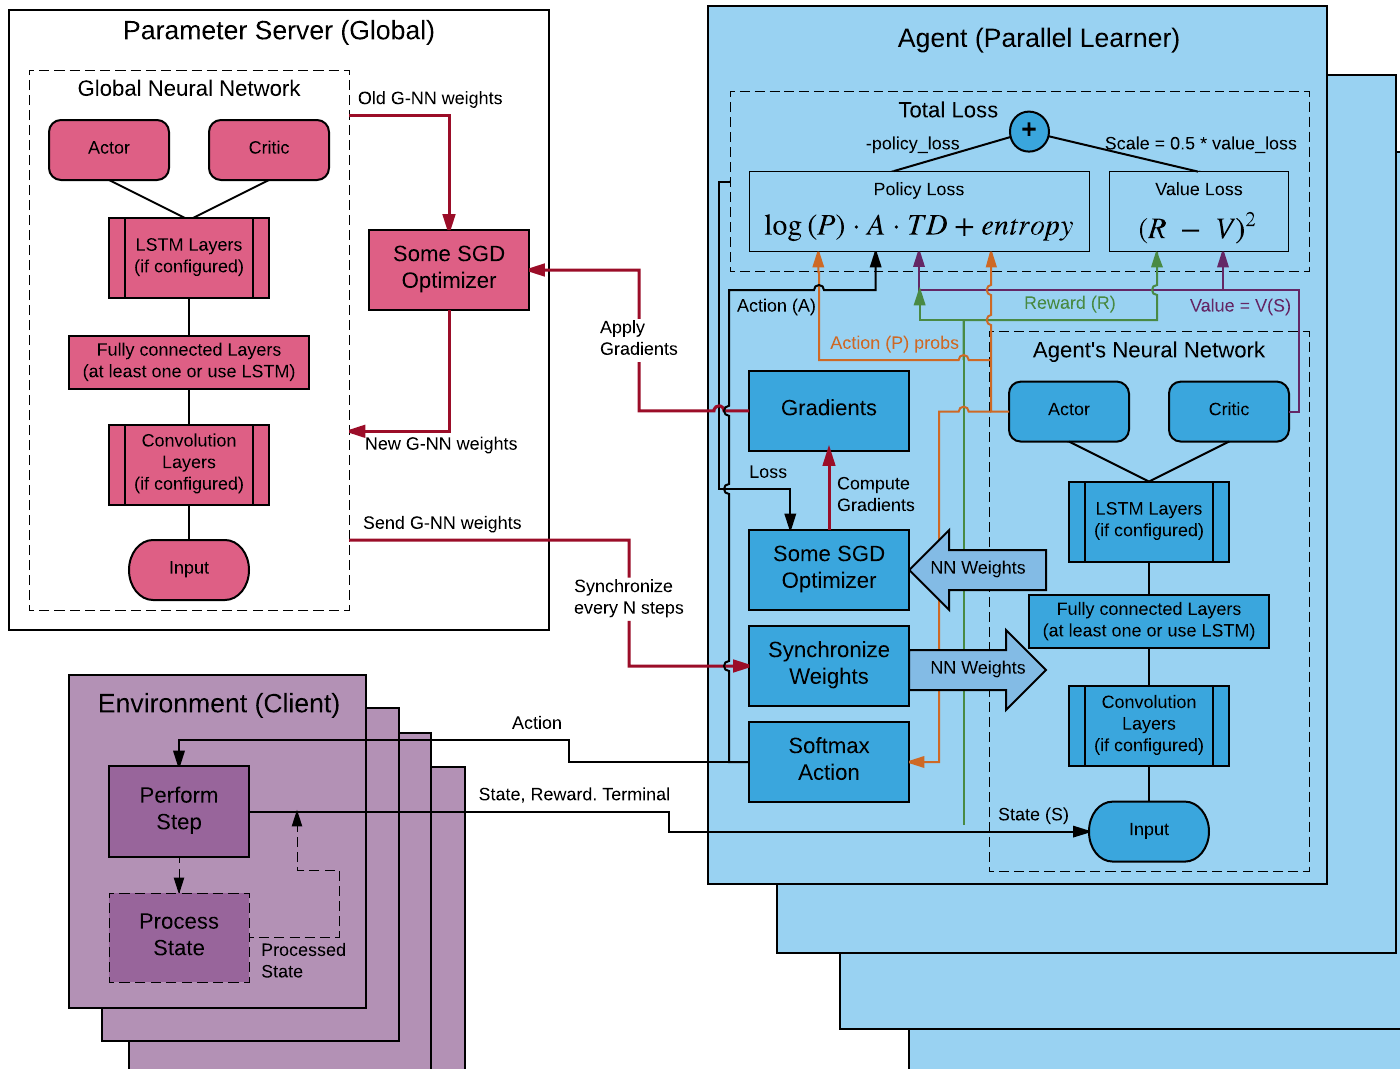
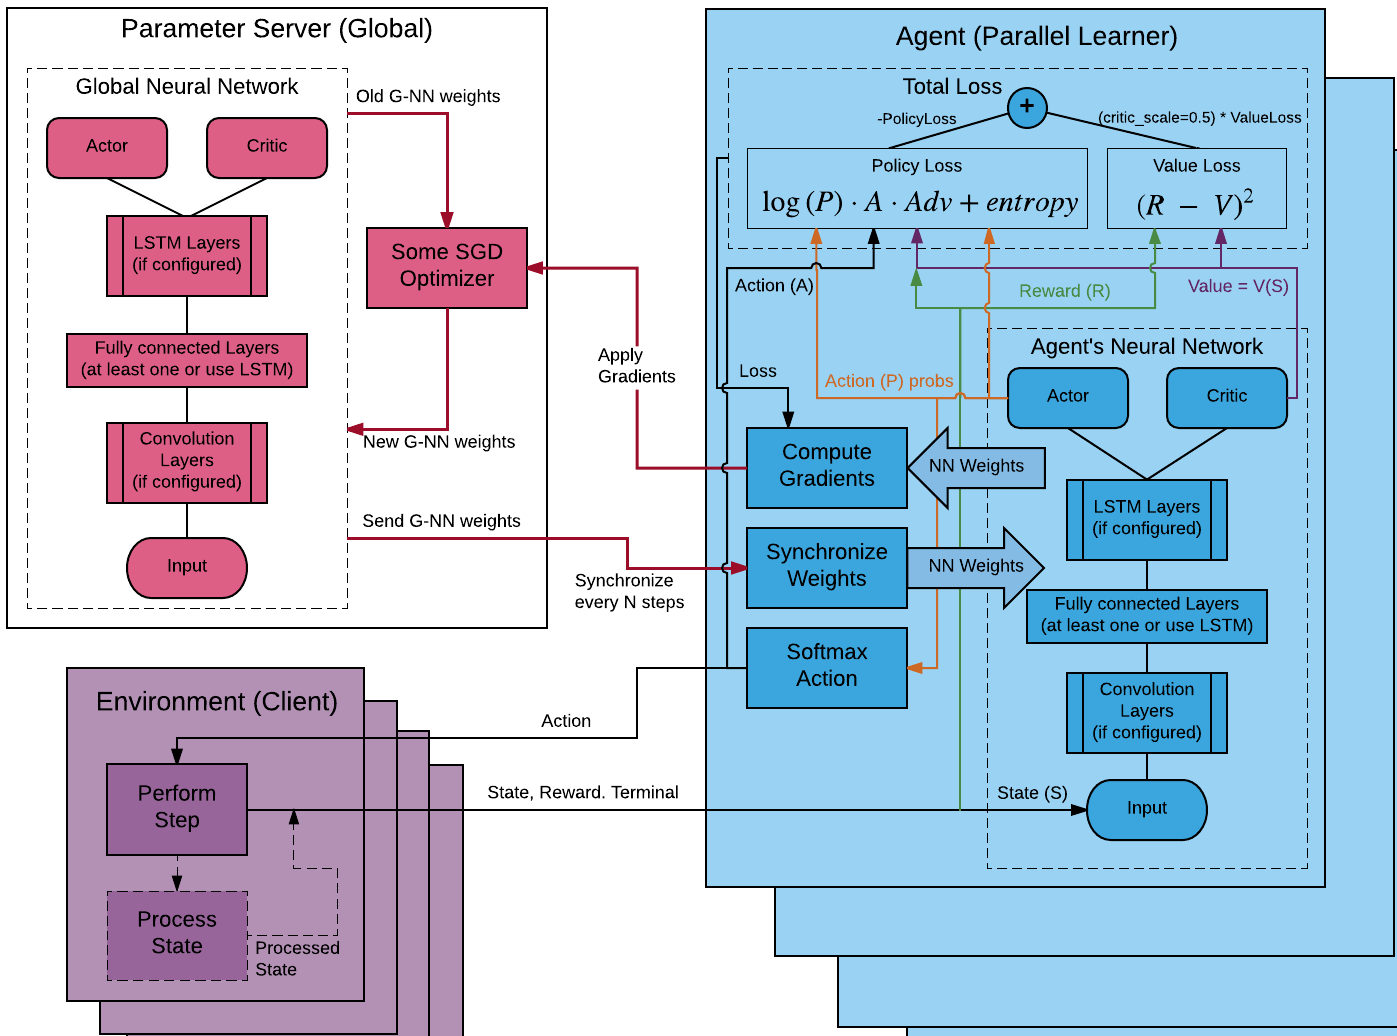
upd: freeze da3c docs

diff --git a/docs/Algorithms.md b/docs/Algorithms.md
@@ -43,8 +43,11 @@ The gradient update can be represented with _TD_-error multiplier as in original
 or with an estimate of the _advantage_ function:
 ![img](http://latex.codecogs.com/svg.latex?%5Cbigtriangledown_%7B%7B%5Ctheta%7D%27%7Dlog%5C%2C%5Cpi%5Cleft%28a_%7Bt%7D%5Cmid%5C%5Cs_%7Bt%7D%3B%5C%2C%7B%5Ctheta%7D%27%5Cright%29A%5Cleft%28s_%7Bt%7D%2Ca_%7Bt%7D%3B%5C%2C%5Ctheta%2C%5Ctheta_%7B%5Cupsilon%7D%5Cright%29),
 where
-![img](http://latex.codecogs.com/svg.latex?A%5Cleft%28s_%7Bt%7D%2Ca_%7Bt%7D%3B%5C%2C%5Ctheta%2C%5Ctheta_%7B%5Cupsilon%7D%5Cright%29%3D%5Csum_%7Bi%3D0%7D%5E%7Bk-1%7D%5Cgamma%5E%7Bi%7Dr_%7Bt%2Bi%7D%2B%5Cgamma%5E%7Bk%7DV%5Cleft%28s_%7Bt%7D%3B%5Ctheta_%7B%5Cupsilon%7D%5Cright%29)
+![img](http://latex.codecogs.com/svg.latex?A%5Cleft%28s_%7Bt%7D%2Ca_%7Bt%7D%3B%5C%2C%5Ctheta%2C%5Ctheta_%7B%5Cupsilon%7D%5Cright%29%3D%5Csum_%7Bi%3D0%7D%5E%7Bk-1%7D%5Cgamma%5E%7Bi%7Dr_%7Bt%2Bi%7D%2B%5Cgamma%5E%7Bk%7DV%5Cleft%28s_%7Bt%2Bk%7D%3B%5Ctheta_%7B%5Cupsilon%7D%5Cright%29-V%5Cleft%28s_%7Bt%7D%3B%5Ctheta_%7B%5Cupsilon%7D%5Cright%29)
 with _k_ upbounded by _t_<sub>_max_</sub>.
+To use the last one just set config parameter `use_gae` to `true`.
+The full set of possible config setups would be described later.
+Gradients are also applied with delay compensation on the server parameter for better convergence.  
 
 #### [Distributed A3C Architecture](#algorithms)
 ![img](resources/DA3C-Architecture.png)
@@ -54,45 +57,47 @@ with _k_ upbounded by _t_<sub>_max_</sub>.
 The main role of any client is feeding data to an Agent by transferring:
 state, reward and terminal signals (for episodic tasks if episode ends).
 Client updates these signals at each time step by receiving the action
-signal from an Agent and then sends updated values to it.
+signal from an Agent and then sends updated values back.
 
 - _Process State_: each state could be pass through some filtering
 procedure before transferring (if you defined). It could be some color,
 edge or blob transformations (for image input) or more complex
 pyramidal, Kalman's and spline filters.
 
-**Agent (Parallel Learner)** - one or more Agents can connect to a Global Learner.
+**Agent (Parallel Learner)** - each Agent connects to the Parameter Server.
 
-The main role of any agent is to perform main training loop.
-Agent synchronize their neural network weights with global network by
-copying the last one at the beginning of the loop. Agent performs
-N steps of Client's signals receiving and sending actions back.
+The main role of any agent is to perform a main training loop.
+Agent synchronize their neural network weights with the global network
+by copying the last one weights at the beginning of each training mini loop.
+Agent executes N steps of Client's signals receiving and sending actions back.
 These N steps is similar to batch collection. If batch is collected
-Agent computes the loss (wrt collected data) and pass it to Optimizer.
-RMSProp optimizer computes gradients, which sends to the Global Learner
-to update their neural network weights. Several Agents work in parallel
-and can update global network in concurrent way.
+Agent computes the loss (wrt collected data) and pass it to the Optimizer.
+It could be some SGD optimizer (ADAM or RMSProp) which computes gradients
+and sends it to the Parameter Server for update of its neural network weights.
+All Agents works absolutely independent in asynchronous way and can update or 
+receive the global network weights at any time.
 
-- _Agent's Neural Network_: we use the network architecture from this [Mnih's paper](https://arxiv.org/abs/1312.5602) (by default).
-    - _Input_: 3D input to pass through 2D convolutions (default: 84x84x4).
-    - _Convolution Layer #1_: 16 filters with 8x8 kernel and stride 4 in both directions, then ReLU applies (by default).
-    - _Convolution Layer #2_: 32 filters with 4x4 kernel and stride 2 in both directions, then ReLU applies (by default).
-    Sequence of two convolutions allows to define nonlinearity dependencies.
-    - _Fully connected Layer_: consists of 256 hidden units, then ReLU applies (by default).
-    - _Policy_: outputs number of units equals to action size, passed through softmax operator (by default).
-    It is Actor's output, which represents Q-values on unity distribution (equals to probability) of state-action value function - Q(s, a).
-    - _Value_: outputs one value without applying of additional operators (by default).
-    It is Critic's output, which represents value function output V(s) - how well this state (equals to expected return from this point).
+- _Agent's Neural Network_: we use the neural network architecture similar to [universe agent](https://github.com/openai/universe-starter-agent/blob/master/model.py) (by default).
+    - _Input_: `3D` input to pass through `2D` convolutions (default: `42x42x1`).
+    - _Convolution Layers : `4` layers with `32` filters each and `3x3` kernel, stride `2`, `ELU` activation (by default).
+    - _Fully connected Layers_: one layer with `256` hidden units and `ReLU` activation (by default).
+    - _LSTM Layers_: one layer with `256` cell size (by default it's replaced with fully connected layer).
+    - _Actor_: fully connected layer with number of units equals to `action_size` and `Softmax` activation (by default).  
+    It outputs an `1-D` array with probability distribution between possible actions.
+    - _Critic_: fully connected layer with `1` unit (by default).  
+    It outputs an `0-D` array representing the value of an state (expected return from this point).
 
-- _Total Loss_: it's scalar sum of value and policy loss.
+- _Total Loss_ _`= Policy_Loss + critic_scale * Value_Loss`_  
+    It uses `critic_scale` parameter to set a `critic learning rate` relative to `policy learning rate`  
+    It's set to `0.5` by default, i.e. the `critic learning rate` is `2` times smaller than `policy learning rate`
+    
     - _Value Loss_: sum (over all batch samples) of squared difference between
-    total discounted reward (R) and a value of the current sample state - V(s),
-    i.e. expected accumulated reward from this time step.
-    `R = ri + gamma * V(s from N+1_step)`, where
-     `ri` - immediate reward from this sample,
-     `gamma` - discount factor (constant for the model),
-     `V(s from N+1_step)` - value of the state next to the N-th state,
-      if next state is terminal then `V = 0`.
+    expected discounted reward `(R)` and a value of the current sample state - `V(s)`,
+    i.e. expected discounted return from this state.  
+    ![img](http://latex.codecogs.com/svg.latex?0.5%2A%5Csum_%7Bt%3D0%7D%5E%7Bt_%7Bmax%7D-1%7D%5Cleft%28R_%7Bt%7D-V%5Cleft%28s_%7Bt%7D%3B%5Ctheta_%7B%5Cupsilon%7D%5Cright%29%5Cright%29%5E%7B2%7D),
+    where ![img](http://latex.codecogs.com/svg.latex?R_%7Bt%7D%3D%5Csum_%7Bi%3D0%7D%5E%7Bk-1%7D%5Cgamma%5E%7Bi%7Dr_%7Bt%2Bi%7D%2B%5Cgamma%5E%7Bk%7DV%5Cleft%28s_%7Bt%7D%3B%5Ctheta_%7B%5Cupsilon%7D%5Cright%29)
+    with _k_ upbounded by _t_<sub>_max_</sub>.  
+    If _s<sub>t</sub>_ is terminal then _V(s<sub>t</sub>) = 0_.
 
     - _Policy Loss_: output of the policy (P) is an array of probability
      distribution over all possibly actions for the given sample state.
@@ -113,16 +118,7 @@ We will become more confident in some actions while training
 and the probability distribution is becoming more acute.
 It also helps to solve a problem of "path along the cliff" with high reward at the end.
 
-- _RMSProp Optimizer_: we use this type of optimizer wrt original paper.
-RMSProp is more customizable optimizer than Adam for instance and you
-can get better result if you fit it with appropriate parameters.
-We set `learning rate = 7e-4` for RMSProp and linear anneal this value through
-the training process wrt global training step. We also setup `decay = 0.99`
-and `epsilon = 0.01` for the optimizer. Agent's RMSProp just used to
-compute gradients wrt current Agent's neural network weights and given loss,
-while all moments and slots of optimizer are stored (and shared) at Global Learner.
-
-- _Gradients_: we clip computed gradients before transferring.
+- _Compute Gradients_: we clip computed gradients before transferring.
 
     `output_grads = computed_grads * 40.0 / l2norm(computed_grads)`
 
@@ -137,9 +133,16 @@ to synchronize. Global Learner can be sharded to speedup the training process.
 
 - _Global Neural Network_: network architecture is similar to Agent's one.
 
-- _RMSProp Optimizer_: has the same parameters as Agent's one,
-but used only to apply receiving gradients. This RMSProp
+- _RMSProp Optimizer_: Momentum Optimizers also
 stores moments and slots that are global for all Agents.
+we use this type of optimizer wrt original paper.
+RMSProp is more customizable optimizer than Adam for instance and you
+can get better result if you fit it with appropriate parameters.
+We set `learning rate = 7e-4` for RMSProp and linear anneal this value through
+the training process wrt global training step. We also setup `decay = 0.99`
+and `epsilon = 0.01` for the optimizer. Agent's RMSProp just used to
+compute gradients wrt current Agent's neural network weights and given loss,
+while all moments and slots of optimizer are stored (and shared) at Global Learner.
 
 You can also specify hyperparameters for training in provided `params.yaml` file:
 
